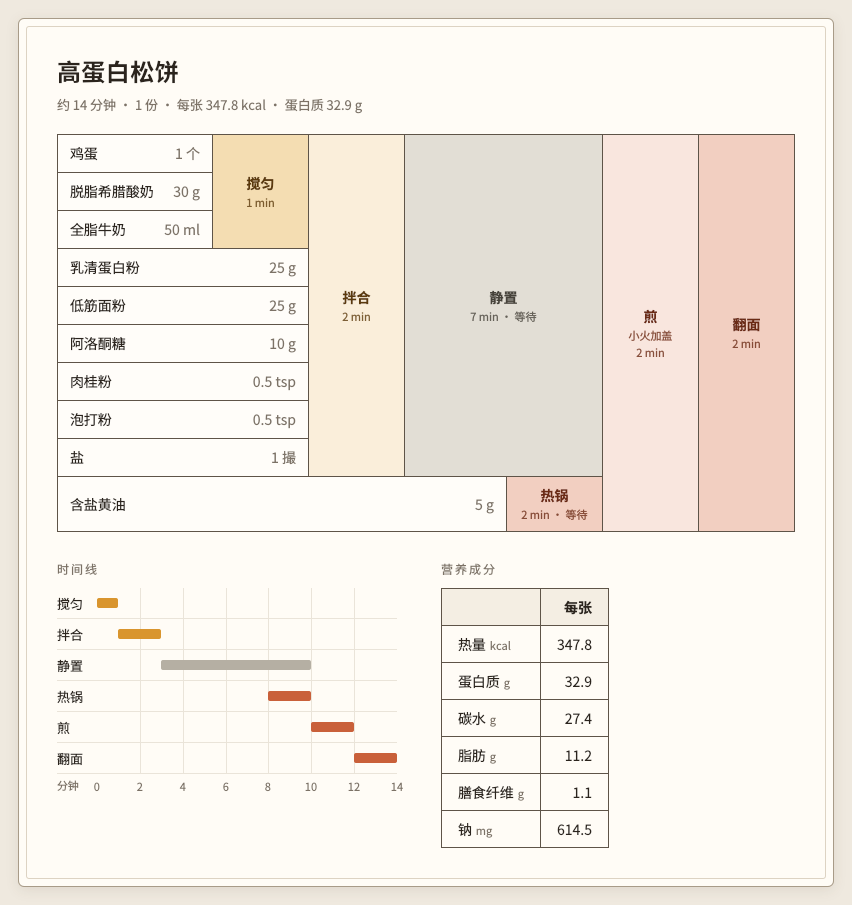
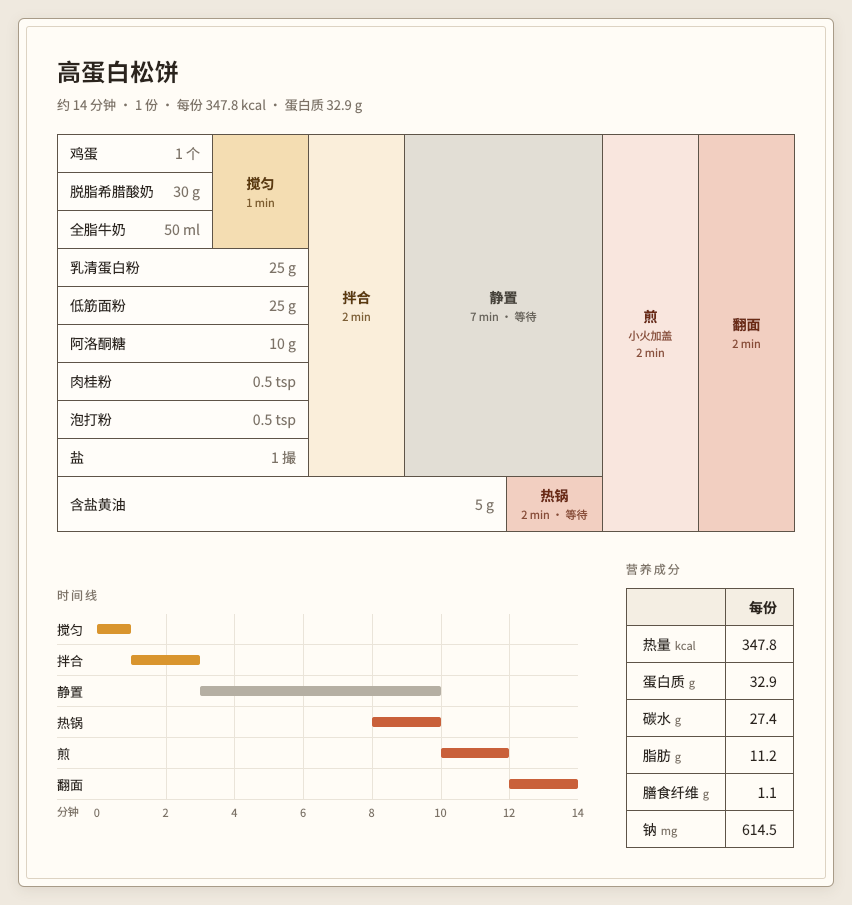
Stretch timeline beside a right-aligned nutrition table; per-serving wording
- lower row spans the recipe table's width: nutrition table flush right,
  timeline fills the rest (positions in %), both vertically centred
- high-protein pancake counts in servings (1 serving / per serving)
- Chinese summary uses the serving word for a single serving too

Claude-Session: https://claude.ai/code/session_01DayUDejLxFjg47KXXpKida

diff --git a/skills/recipe-table/scripts/render_recipe.py b/skills/recipe-table/scripts/render_recipe.py
@@ -243,7 +243,7 @@ def summary_line():
         if has_nut:
             parts.append(f"{kcal} kcal · {prot} g protein per {SNAME.rstrip('s')}")
         return " · ".join(parts)
-    parts = [f"约 {total} 分钟", f"{SERV} {SNAME}" if SERV > 1 else "1 份"]
+    parts = [f"约 {total} 分钟", f"{SERV} {SNAME}"]
     if has_nut:
         parts.append(f"每{SNAME} {kcal} kcal · 蛋白质 {prot} g")
     return " · ".join(parts)
@@ -298,19 +298,19 @@ PH = {  # fill A, fill B (alternate columns), text, timeline bar
 INK, MUTED, LINE, HAIR = "#2B241D", "#7C7266", "#5E5448", "#EAE4D9"
 
 def image_html(table_only=False):
-    track_w = 300
-    px = lambda v: round(track_w * v / total)
-    grid = "".join(f'<div style="position:absolute;left:{px(t)}px;top:0;bottom:0;width:1px;background:{HAIR}"></div>' for t in ticks[1:-1])
+    # timeline stretches to whatever the nutrition table leaves of the recipe table's width, so positions are %
+    pc = lambda v: f"{100 * v / total:.2f}%"
+    grid = "".join(f'<div style="position:absolute;left:{pc(t)};top:0;bottom:0;width:1px;background:{HAIR}"></div>' for t in ticks[1:-1])
     tl = []
     for k in order:
         s = STEPS[k]
         m = s.get("min") or 0
         bar = PH[s["phase"]][3]
-        tl.append(f'<tr><td class="tl">{E(s["_action"])}</td><td class="tk"><div style="position:relative;height:30px;width:{track_w}px">{grid}'
-                  f'<div style="position:absolute;left:{px(start[k])}px;width:{max(px(m), 5)}px;top:10px;height:10px;background:{bar};border-radius:2px"></div>'
+        tl.append(f'<tr><td class="tl">{E(s["_action"])}</td><td class="tk"><div style="position:relative;height:30px">{grid}'
+                  f'<div style="position:absolute;left:{pc(start[k])};width:{pc(max(m, total / 60))};top:10px;height:10px;background:{bar};border-radius:2px"></div>'
                   f'</div></td></tr>')
-    axis = "".join(f'<div style="position:absolute;left:{px(t) - 15}px;width:30px;text-align:center;top:4px">{t}</div>' for t in ticks)
-    tl.append(f'<tr><td class="tl axl">{"min" if EN else "分钟"}</td><td><div style="position:relative;height:22px;width:{track_w}px;font-size:11px;color:{MUTED}">{axis}</div></td></tr>')
+    axis = "".join(f'<div style="position:absolute;left:{pc(t)};margin-left:-15px;width:30px;text-align:center;top:4px">{t}</div>' for t in ticks)
+    tl.append(f'<tr><td class="tl axl">{"min" if EN else "分钟"}</td><td><div style="position:relative;height:22px;font-size:11px;color:{MUTED}">{axis}</div></td></tr>')
     step_css = "".join(f".cfe .{p}.c0{{background:{a};color:{t}}}.cfe .{p}.c1{{background:{b};color:{t}}}" for p, (a, b, t, _) in PH.items())
     css = f"""body{{margin:0;padding:18px;background:#EFE9DF;color:{INK};font-family:"Noto Sans CJK SC","Noto Sans SC",sans-serif;width:1200px}}
 .card{{display:inline-block;background:#FFFCF6;border:1px solid #A89B88;border-radius:6px;padding:7px;-webkit-box-shadow:0 3px 14px rgba(60,42,20,.10)}}
@@ -329,11 +329,14 @@ h1{{font-size:24px;font-weight:bold;margin:0 0 6px;letter-spacing:.5px}}
 .tlt{{border-collapse:collapse;font-size:13px}}
 .tlt td{{padding:0}}
 .tlt .tk{{border-bottom:1px solid {HAIR}}}
-.tl{{padding-right:14px !important;white-space:nowrap;border-bottom:1px solid {HAIR};color:{INK}}}
+.tl{{width:1px;padding-right:14px !important;white-space:nowrap;border-bottom:1px solid {HAIR};color:{INK}}}
 .axl{{border-bottom:none !important;font-size:11px;color:{MUTED} !important}}
 .nt{{border-collapse:collapse;font-size:14px}}
 .low{{border-collapse:collapse}}
-.low .lo{{padding:0;vertical-align:top}}
+.low .lo{{padding:0;vertical-align:middle}}
+.low .nut{{width:1px;padding-left:48px}}
+.low .nut td,.low .nut th{{white-space:nowrap}}
+.tlt{{width:100%}}
 .nt th,.nt td{{border:1px solid {LINE};padding:7px 16px;text-align:left}}
 .nt th{{background:#F4EEE3;font-weight:bold}}
 .nt .v{{text-align:right}}
@@ -344,10 +347,10 @@ h1{{font-size:24px;font-weight:bold;margin:0 0 6px;letter-spacing:.5px}}
     if table_only:
         body = f"{head}{table}"
     else:
-        nut = f'<div class="sec">营养成分</div>{nutrition_html()}' if has_nut else ""
-        lower = (f'<td class="lo"><div class="sec">时间线</div><table class="tlt">{"".join(tl)}</table></td>'
-                 + (f'<td class="lo" style="padding-left:44px">{nut}</td>' if nut else ""))
-        body = f'{head}{table}<table class="low"><tr>{lower}</tr></table>'
+        nut = f'<div class="sec">{"Nutrition" if EN else "营养成分"}</div>{nutrition_html()}' if has_nut else ""
+        lower = (f'<td class="lo"><div class="sec">{"Timeline" if EN else "时间线"}</div><table class="tlt">{"".join(tl)}</table></td>'
+                 + (f'<td class="lo nut">{nut}</td>' if nut else ""))
+        body = f'{head}{table}<table class="low" style="width:{sum(layout(IMG_SCALE, (150, 300), 14)[0])}px"><tr>{lower}</tr></table>'
     return f'<!doctype html><html><head><meta charset="utf-8"><style>{css}</style></head><body><div class="card"><div class="frame">{body}</div></div></body></html>'
 
 # ---------- outputs ----------

diff --git a/skills/recipe-table/references/style.md b/skills/recipe-table/references/style.md
@@ -22,7 +22,7 @@
 ## 图片版（`--png` / `--table-png`）
 
 - 整体像一张拿在手里的菜谱卡：浅米色底色上一张奶油白卡片，外框暖灰褐细线、内侧再嵌一圈浅米色细线（双线框），小圆角、很淡的阴影；卡片外只留窄窄一圈底色。标题上方不加装饰横线。文字用深棕色，不用纯黑。
-- 完整图片里时间线和营养表并排放在配方表下面（时间线在左），不各占一整行。时间线的名称列按最长步骤名收窄，0 分钟紧跟在名称后面。不要像网页的圆角矩形。
+- 完整图片里时间线和营养表并排放在配方表下面，总宽和配方表对齐：营养表贴右，时间线在左并拉伸填满剩下的宽度，两块竖直居中对齐。时间线的名称列按最长步骤名收窄，0 分钟紧跟在名称后面。不要像网页的圆角矩形。
 - 标题、摘要行和表格之间不加分隔线。
 - 配色用暖色调（用户看过冷色版后改回暖色）：备料/混合是浅杏黄，加热是浅橙红，等待是暖浅灰；时间线条形用对应的深一号颜色。
 - 相邻两列同一阶段时一深一浅交替（按列号奇偶），避免两个同色格子贴在一起看不出边界。

diff --git a/README.md b/README.md
@@ -7,7 +7,7 @@
 <!-- index:start -->
 | 菜谱 | 分类 | 每份 |
 |---|---|---|
-| [高蛋白松饼](recipes/breakfast/high-protein-pancake.md) | breakfast | 347.8 kcal · 32.9 g 蛋白质 / 张 |
+| [高蛋白松饼](recipes/breakfast/high-protein-pancake.md) | breakfast | 347.8 kcal · 32.9 g 蛋白质 / 份 |
 | [高蛋白法式吐司](recipes/breakfast/protein-french-toast.md) | breakfast | 200.5 kcal · 19.8 g 蛋白质 / 片 |
 | [乳清蛋白松饼](recipes/breakfast/protein-pancake.md) | breakfast | 315.0 kcal · 34.6 g 蛋白质 / 份 |
 <!-- index:end -->

diff --git a/recipes/breakfast/high-protein-pancake.md b/recipes/breakfast/high-protein-pancake.md
@@ -1,6 +1,6 @@
 # 高蛋白松饼
 
-约 14 分钟 · 1 份 · 每张 347.8 kcal · 蛋白质 32.9 g
+约 14 分钟 · 1 份 · 每份 347.8 kcal · 蛋白质 32.9 g
 
 ## 配方表
 
@@ -23,7 +23,7 @@ todayMarker off
 
 ## 营养成分
 
-| 项目 | 每张 |
+| 项目 | 每份 |
 |---|---:|
 | 热量（kcal） | 347.8 |
 | 蛋白质（g） | 32.9 |
